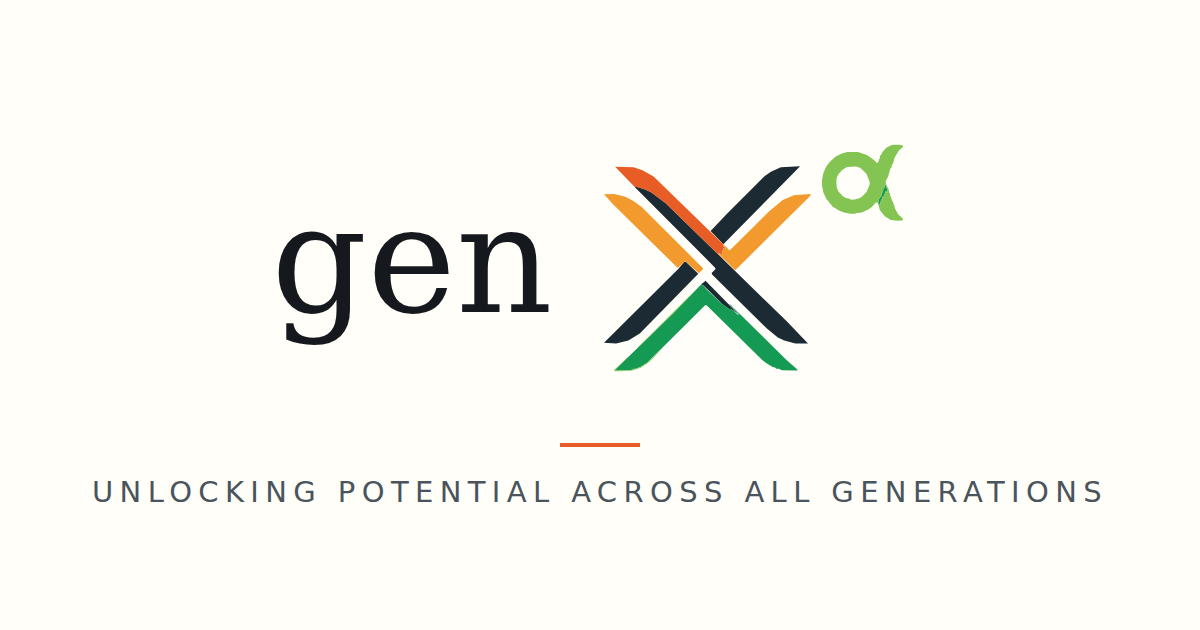
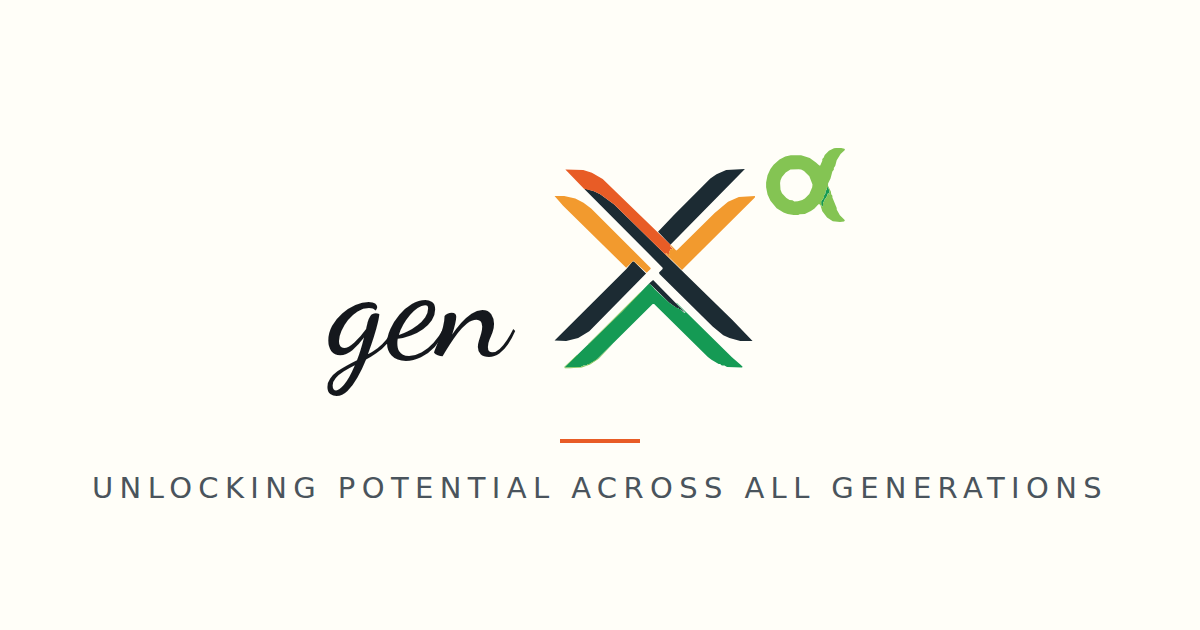
Script 'gen' in the hero lockup; browser UA for the Substack feed
- Hero 'gen' now uses Dancing Script (handwritten, matching the original
  logo lockup); OG image regenerated to match.
- The Substack RSS fetch got HTTP 403 in CI because Substack's bot
  protection rejects the default node user-agent — send a browser UA.

Claude-Session: https://claude.ai/code/session_01FJyfQcPGngPdvTEnpJv1w8

diff --git a/src/lib/substack.ts b/src/lib/substack.ts
@@ -82,9 +82,16 @@ function pick(item: string, tag: string): string {
 
 export async function getPosts(): Promise<{ posts: Post[]; live: boolean }> {
   try {
+    // Substack's bot protection 403s the default node user-agent, so
+    // present as a regular browser.
     const res = await fetch(FEED_URL, {
       signal: AbortSignal.timeout(15_000),
-      headers: { accept: 'application/rss+xml, application/xml, text/xml' },
+      headers: {
+        accept: 'application/rss+xml, application/xml, text/xml, */*',
+        'user-agent':
+          'Mozilla/5.0 (Macintosh; Intel Mac OS X 10_15_7) AppleWebKit/537.36 (KHTML, like Gecko) Chrome/126.0.0.0 Safari/537.36',
+        'accept-language': 'en-US,en;q=0.9',
+      },
     });
     if (!res.ok) throw new Error(`feed returned HTTP ${res.status}`);
     const xml = await res.text();